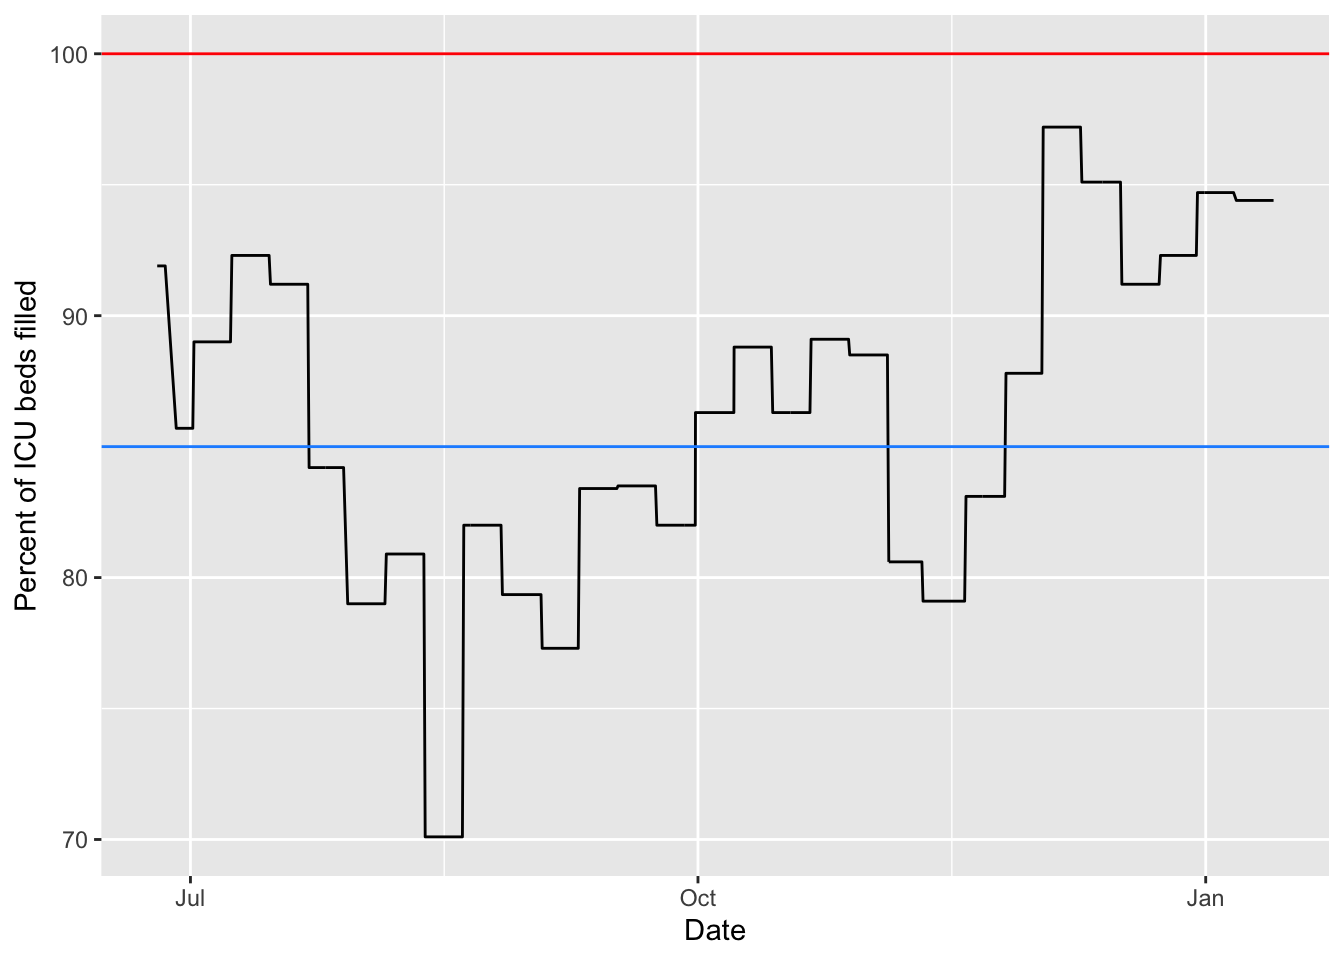
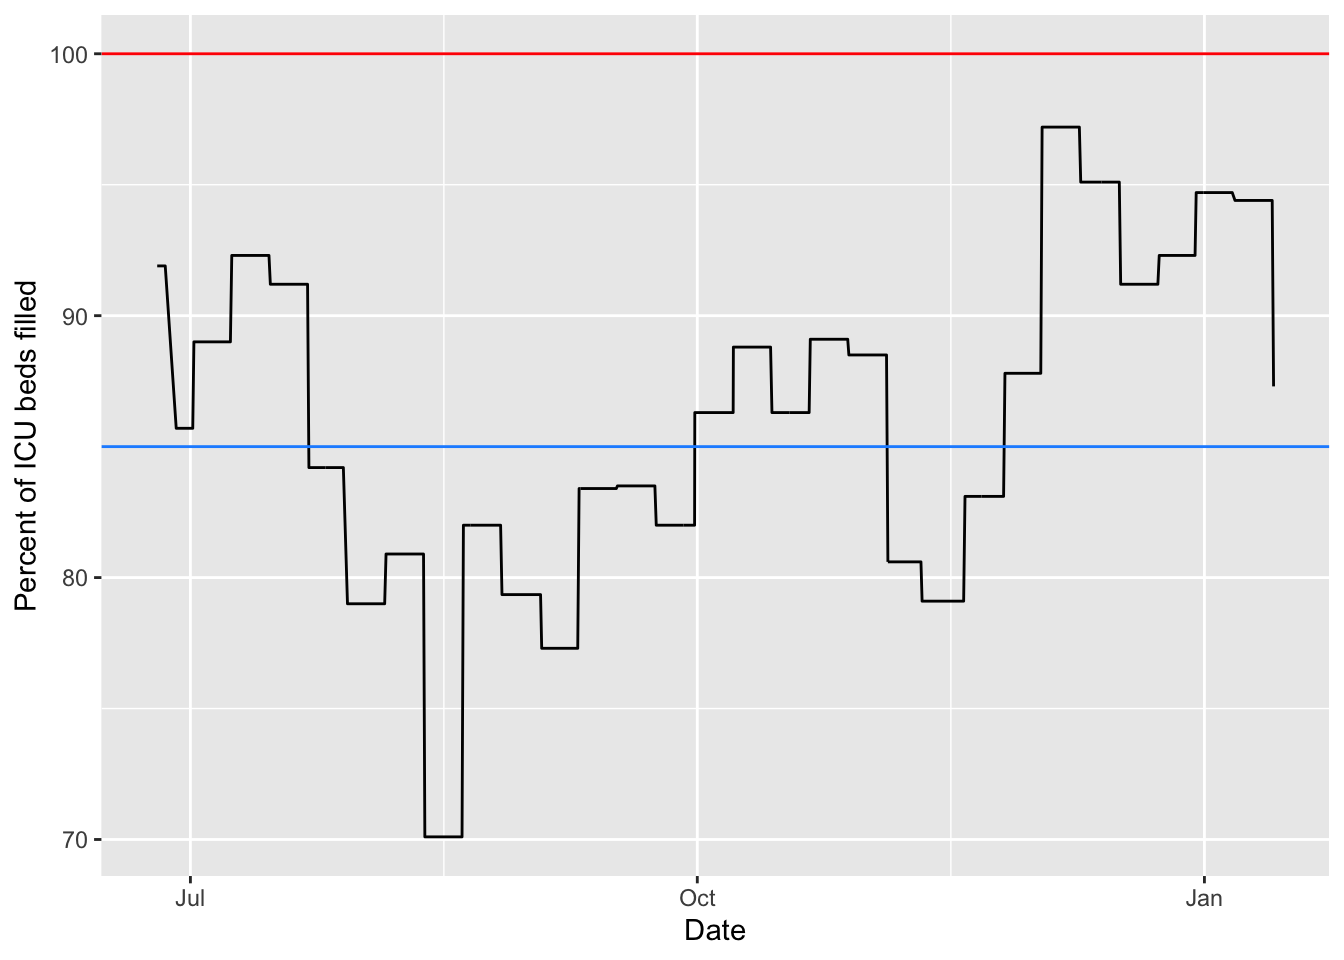
updating site

diff --git a/docs/covid.html b/docs/covid.html
@@ -437,7 +437,7 @@ $(document).ready(function () {
 <li>Info about cases at <a href="#ut">U. of Tennessee, Knoxville</a> (using public information only)</li>
 <li><a href="#webcams">Webcams</a> showing activity at local sites, though not quite at the resolution to point to mask usage or not</li>
 </ul>
-<p>The following plots are created in R using data from <a href="https://covid19datahub.io" class="uri">https://covid19datahub.io</a> (Guidotti, E., Ardia, D., (2020), “COVID-19 Data Hub”, Working paper, doi: 10.13140/RG.2.2.11649.81763), as well as information from Google and the <a href="https://www.tn.gov/health/cedep/ncov/data/downloadable-datasets.html">state of Tennessee dataset page</a> and plotting and analysis using the <code>forecast</code>, <code>ggplot2</code>, <code>reshape2</code>, and <code>dplyr</code> packages. Plots created on 2021-01-13 09:36:37. I use a seven day rolling average for most plots using the <code>geom_ma</code> function of <code>tidyquant</code>.</p>
+<p>The following plots are created in R using data from <a href="https://covid19datahub.io" class="uri">https://covid19datahub.io</a> (Guidotti, E., Ardia, D., (2020), “COVID-19 Data Hub”, Working paper, doi: 10.13140/RG.2.2.11649.81763), as well as information from Google and the <a href="https://www.tn.gov/health/cedep/ncov/data/downloadable-datasets.html">state of Tennessee dataset page</a> and plotting and analysis using the <code>forecast</code>, <code>ggplot2</code>, <code>reshape2</code>, and <code>dplyr</code> packages. Plots created on 2021-01-13 13:25:27. I use a seven day rolling average for most plots using the <code>geom_ma</code> function of <code>tidyquant</code>.</p>
 <h2 id="cases">
 Cases
 </h2>
@@ -476,9 +476,9 @@ Schooling
 <h2 id="hospitalization">
 Hospitalization
 </h2>
-<p>As of the last time the data were updated (likely 7 days ago), regional hospitals had 16 ICU beds available of 284 total (so was at 94 percent capacity), and 131 available ventilators out of 255 total, (so was at 49 percent capacity). The hospitals overall had 637 beds available of 3048 total (so was at 79 percent capacity). This is based on 19 acute care hospitals in the East TN region; based on the 14 counties these hospitals are in, these serve at least 1,235,720 people. When a line hits 100% (indicated in red), the local hospitals are theoretically full for that resource (for <em>all</em> patients, not just covid patients), though there is surge capacity on top of this. Note that these data are updated only weekly, so current conditions maybe be much better or worse than these plots show. Data on capacity from Knox County’s dashboard, data on hospitalizations and testing over time from the state data.</p>
+<p>As of the last time the data were updated (likely 0 days ago), regional hospitals had 36 ICU beds available of 284 total (so was at 87 percent capacity), and 136 available ventilators out of 256 total, (so was at 47 percent capacity). The hospitals overall had 591 beds available of 3056 total (so was at 81 percent capacity). This is based on 19 acute care hospitals in the East TN region; based on the 14 counties these hospitals are in, these serve at least 1,235,720 people. When a line hits 100% (indicated in red), the local hospitals are theoretically full for that resource (for <em>all</em> patients, not just covid patients), though there is surge capacity on top of this. Note that these data are updated only weekly, so current conditions maybe be much better or worse than these plots show. Data on capacity from Knox County’s dashboard, data on hospitalizations and testing over time from the state data.</p>
 <p><img src="covid_files/figure-html/hospitalcapacityplot-1.png" width="672" /></p>
-<p>Trends in hospitalization of covid patients over time. The vertical dotted line shows the last day with updated capacity information from Knox County, when there were 16 ICU beds available (ignoring surge capacity) for people in the East Tennessee region. The seven day average is shown.</p>
+<p>Trends in hospitalization of covid patients over time. The vertical dotted line shows the last day with updated capacity information from Knox County, when there were 36 ICU beds available (ignoring surge capacity) for people in the East Tennessee region. The seven day average is shown.</p>
 <p><img src="covid_files/figure-html/plotsD-1.png" width="672" /></p>
 <p>In December 2020, California instituted a new policy of going to shutdowns in regions when ICUs get filled above 85% capacity. When this happens, “Affected communities will be required to close personal service businesses, including hair and nail salons, playgrounds, zoos, museums, aquariums and wineries. Overnight, short-term stays at campgrounds would be prohibited. Restaurants will be required to return to take-out service only. Retail businesses will be limited to 20% of their customer capacity inside at any one time, with requirements for store officials to ensure there’s no indoor drinking or eating.” according to an <a href="https://www.latimes.com/california/story/2020-12-03/newsom-weighs-shutdown-california-covid-19-cases-soar-december">article in the LA times</a>. Tennessee is not bound by California’s rules, but we can plot our region’s hospital capacity and see how the current outbreak compares. Blue shows California’s threshold for shutting down many things like dining in restaurants; red shows full capacity for our region, when every bed is full (ignoring any surge capacity):</p>
 <p><img src="covid_files/figure-html/hospitalcapacityplotvsCA-1.png" width="672" /></p>
